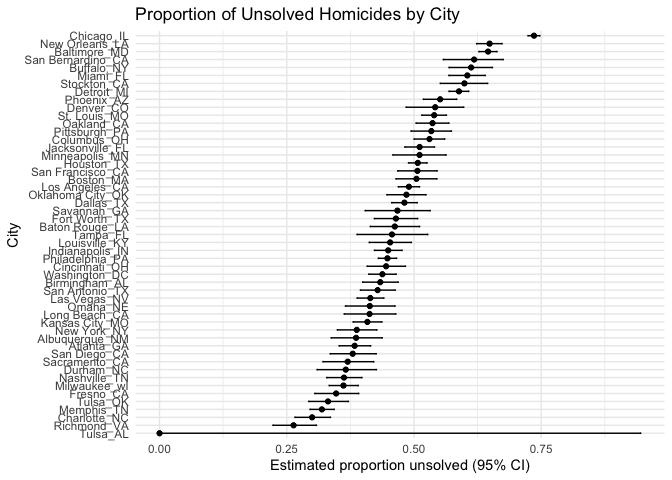
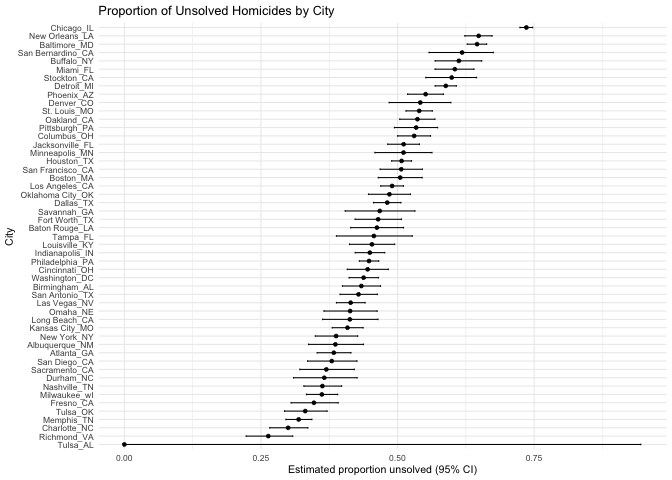
add captions

Changed region(s): [[0.0, 0.0312, 1.0, 1.0], [0.125, 0.0, 0.6875, 0.0625], [0.7812, 0.0312, 0.8125, 0.0938]]

diff --git a/HW5.md b/HW5.md
@@ -410,7 +410,7 @@ city_results %>%
     x = "City",
     y = "Estimated proportion unsolved (95% CI)"
   ) +
-  theme_minimal()
+  theme_minimal(base_size = 8)
 ```
 
 ![](HW5_files/figure-gfm/unnamed-chunk-20-1.png)<!-- -->
